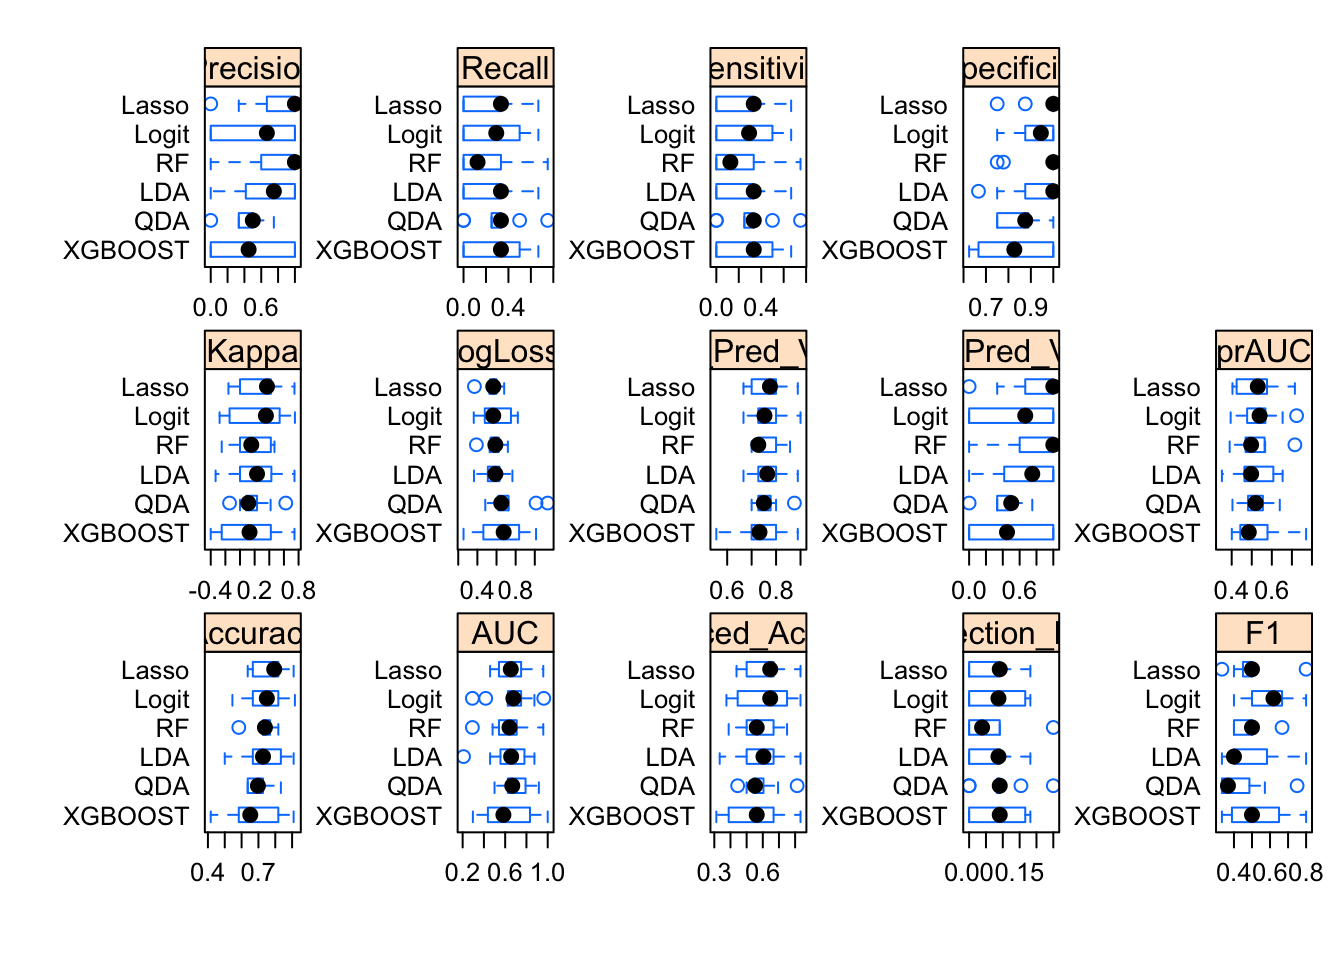
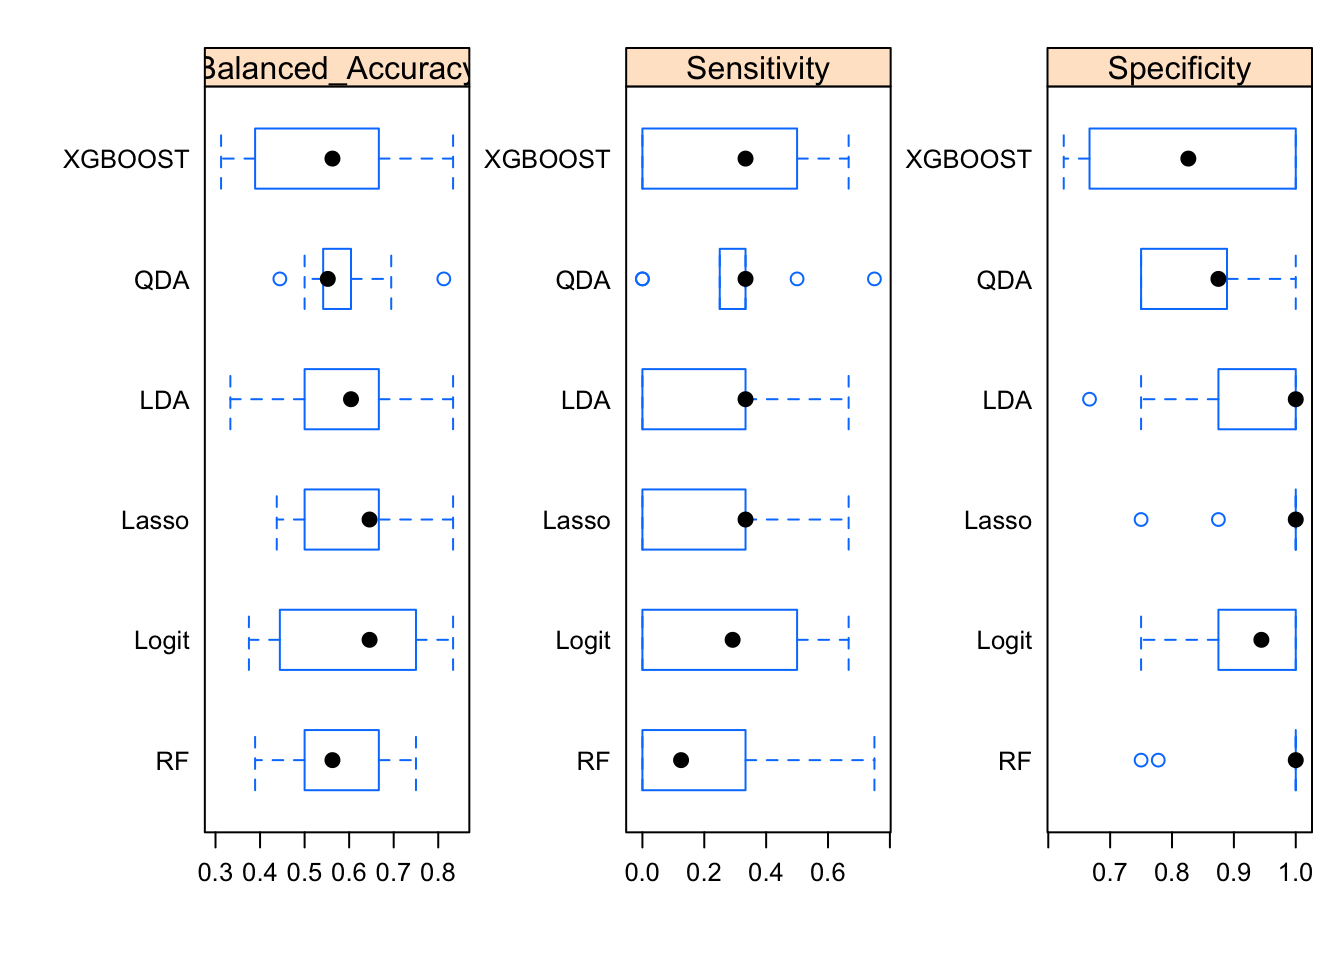
Built site for gh-pages

diff --git a/about.html b/about.html
@@ -557,7 +557,7 @@ pre > code.sourceCode > span > a:first-child::before { text-decoration: underlin
 <span id="cb25-2"><a href="#cb25-2" aria-hidden="true" tabindex="-1"></a>results.binary.ADHD_1 <span class="ot">&lt;-</span> <span class="fu">resamples</span>(models.binary_ADHD_1)</span>
 <span id="cb25-3"><a href="#cb25-3" aria-hidden="true" tabindex="-1"></a>results.binary.ADHD_2 <span class="ot">&lt;-</span> <span class="fu">resamples</span>(models.binary_ADHD_2)</span>
 <span id="cb25-4"><a href="#cb25-4" aria-hidden="true" tabindex="-1"></a>results.binary.ADHD_3 <span class="ot">&lt;-</span> <span class="fu">resamples</span>(models.binary_ADHD_3)</span>
-<span id="cb25-5"><a href="#cb25-5" aria-hidden="true" tabindex="-1"></a><span class="fu">bwplot</span>(results.binary.ADHD_1,  <span class="at">scales =</span> <span class="fu">list</span>(<span class="at">x =</span> <span class="fu">list</span>(<span class="at">relation =</span> <span class="st">"free"</span>), <span class="at">y =</span> <span class="fu">list</span>(<span class="at">relation =</span> <span class="st">"free"</span>)))</span></code><button title="Copy to Clipboard" class="code-copy-button"><i class="bi"></i></button></pre></div>
+<span id="cb25-5"><a href="#cb25-5" aria-hidden="true" tabindex="-1"></a><span class="fu">bwplot</span>(results.binary.ADHD_1, <span class="at">metric =</span> <span class="fu">c</span>(<span class="st">"Sensitivity"</span>, <span class="st">"Specificity"</span>, <span class="st">"Balanced_Accuracy"</span>),  <span class="at">scales =</span> <span class="fu">list</span>(<span class="at">x =</span> <span class="fu">list</span>(<span class="at">relation =</span> <span class="st">"free"</span>), <span class="at">y =</span> <span class="fu">list</span>(<span class="at">relation =</span> <span class="st">"free"</span>)))</span></code><button title="Copy to Clipboard" class="code-copy-button"><i class="bi"></i></button></pre></div>
 <div class="cell-output-display">
 <div>
 <figure class="figure">
